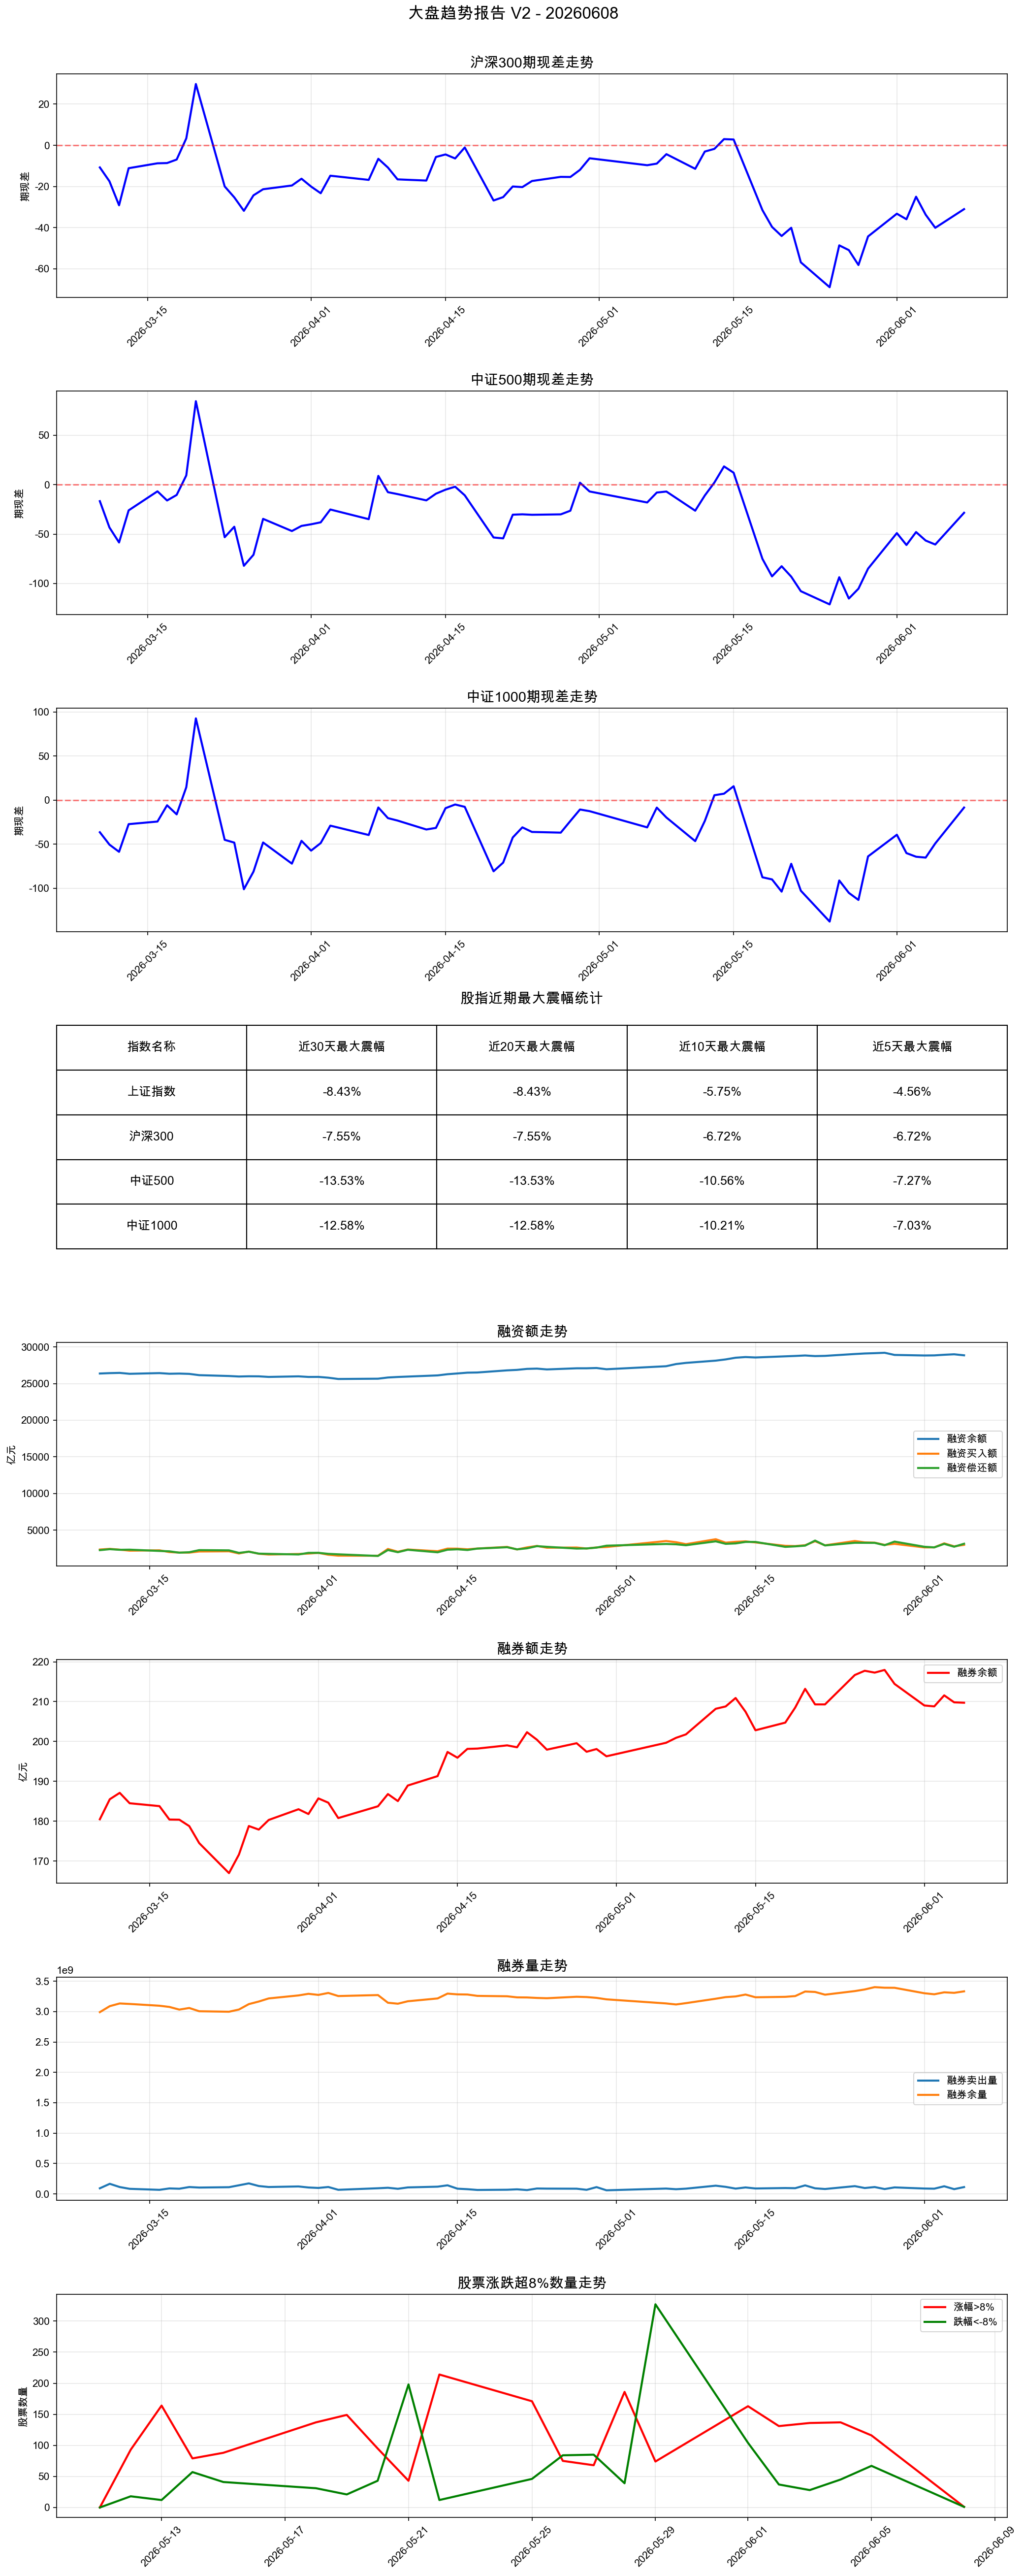
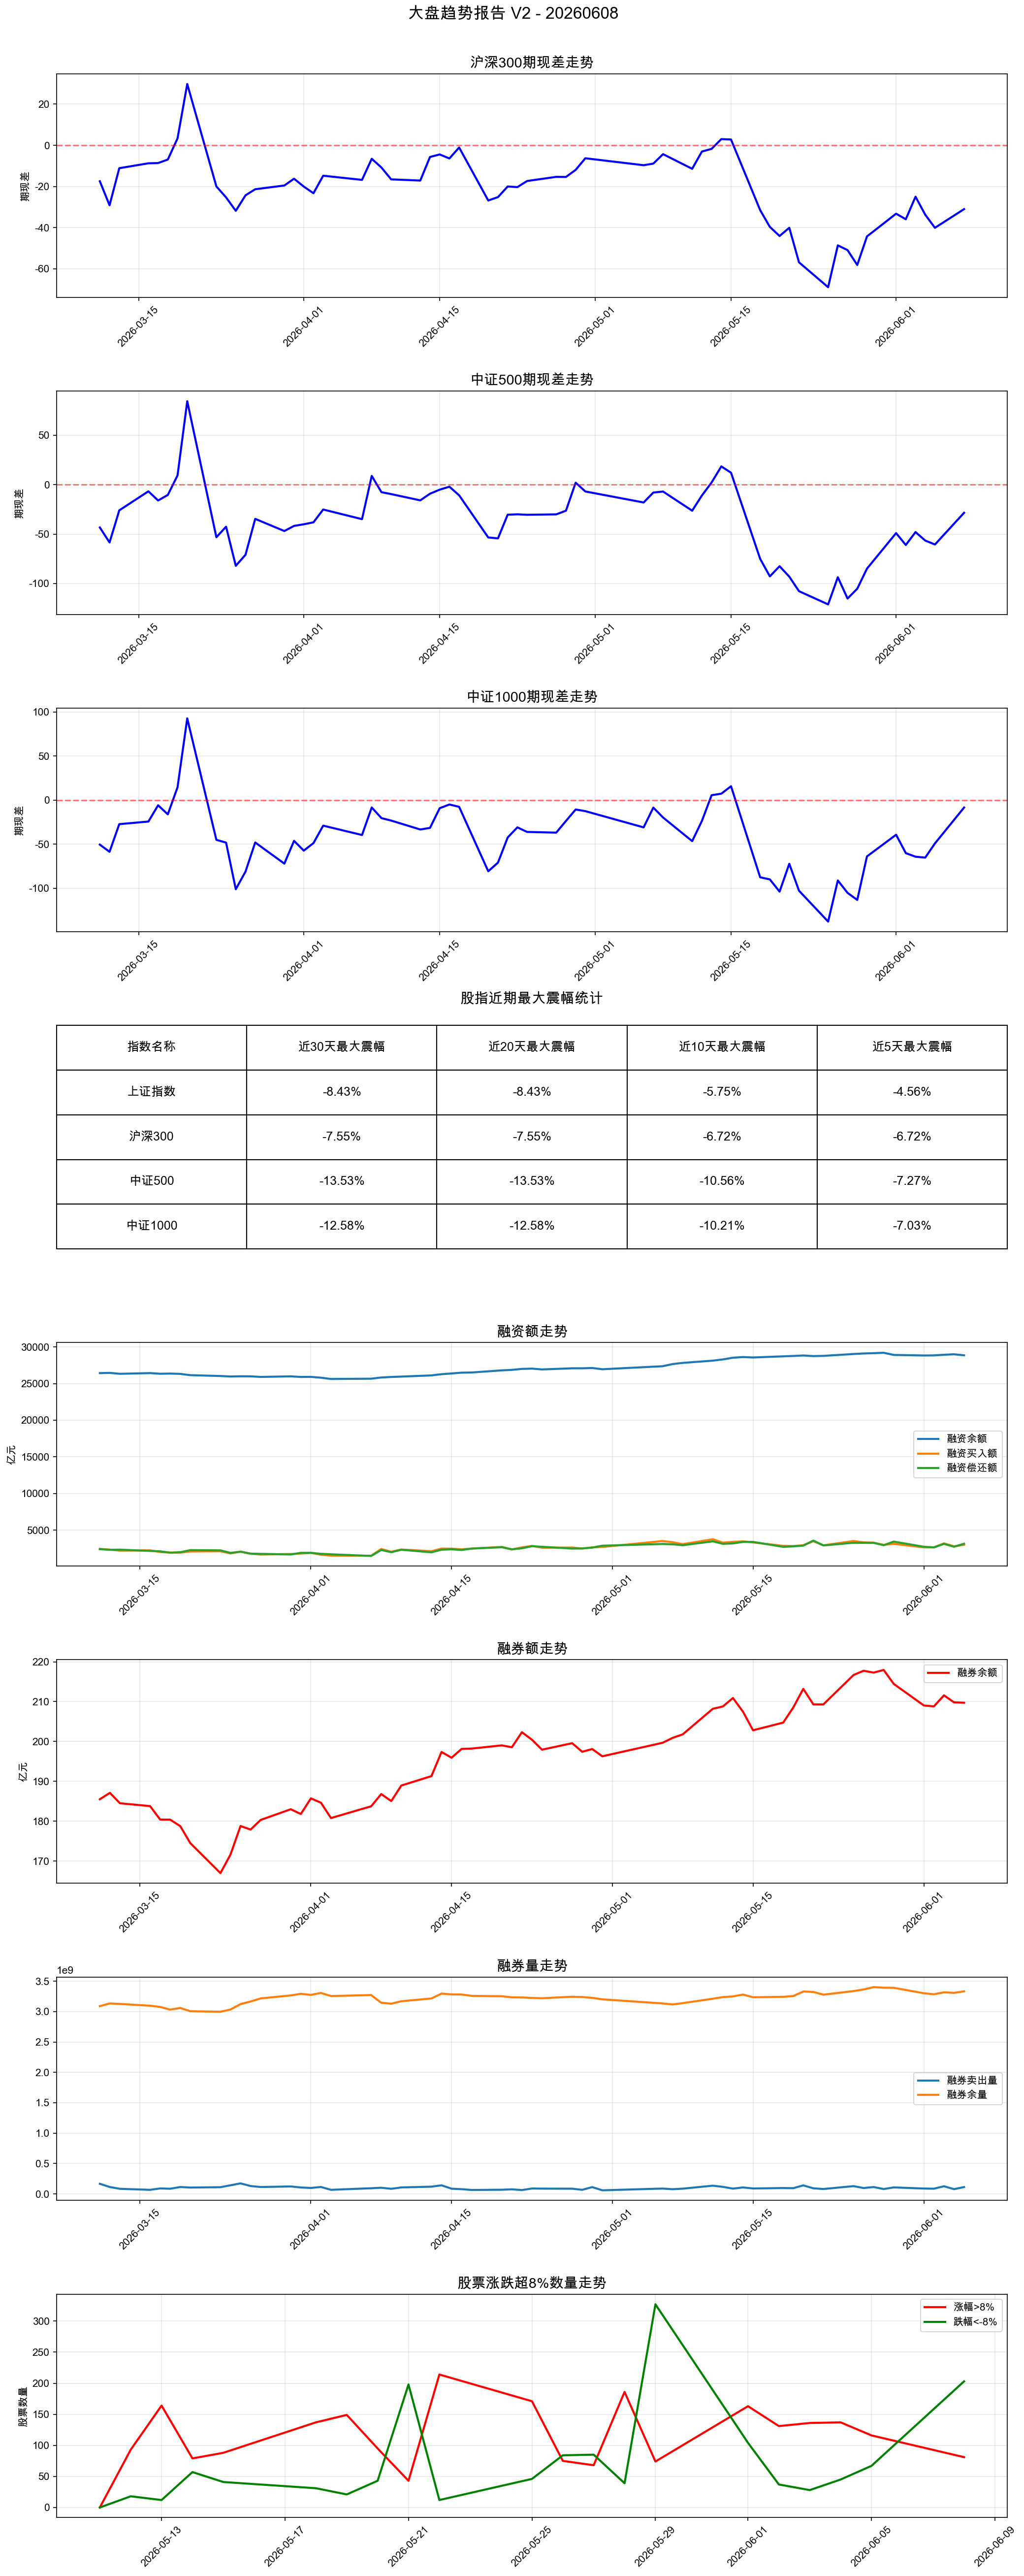
优化选股策略：增加振幅筛选条件
- select_lowwave_in10day.py: 新增最近10日振幅0%-15%筛选条件
- select_lowwave_in30day.py: 新增最近30日振幅0%-15%筛选条件

振幅公式：(最高收盘价-最低收盘价)/最低收盘价×100
有效筛选低波动股票，提高选股质量

diff --git a/select_lowwave_in10day.py b/select_lowwave_in10day.py
@@ -90,6 +90,7 @@ def analyze_stocks(data):
 
     result = []
     count_total = 0
+    count_condition0 = 0  # 新增：振幅条件
     count_condition1 = 0
     count_condition2 = 0
     count_condition3 = 0
@@ -110,6 +111,19 @@ def analyze_stocks(data):
             continue
 
         count_total += 1
+
+        # 检查最近10日振幅 (新增条件)
+        max_close = max([r['close'] for r in last_10_days])
+        min_close = min([r['close'] for r in last_10_days])
+        if min_close > 0:
+            amplitude = (max_close - min_close) / min_close * 100
+        else:
+            amplitude = 0
+
+        if amplitude <= 0 or amplitude >= 15:
+            continue
+
+        count_condition0 += 1  # 振幅条件满足
 
         up_days_amount = []
         down_days_amount = []
@@ -172,11 +186,12 @@ def analyze_stocks(data):
     print("\n" + "=" * 60)
     print(f"满足条件统计：")
     print(f"总股票数(数据完整): {count_total}")
-    print(f"满足条件1(至少4天阳线): {count_condition1}")
-    print(f"满足条件1+2(阳线成交额>阴线1.3倍): {count_condition2}")
-    print(f"满足条件1+2+3(阳线平均成交额>5亿): {count_condition3}")
-    print(f"满足条件1+2+3+4(最近10天至少2天涨幅>5%): {count_condition4}")
-    print(f"满足条件1+2+3+4+5(市值>50亿): {len(result)}")
+    print(f"满足条件0(最近10日振幅0%-15%): {count_condition0}")
+    print(f"满足条件0+1(至少4天阳线): {count_condition1}")
+    print(f"满足条件0+1+2(阳线成交额>阴线1.3倍): {count_condition2}")
+    print(f"满足条件0+1+2+3(阳线平均成交额>5亿): {count_condition3}")
+    print(f"满足条件0+1+2+3+4(最近10天至少2天涨幅>5%): {count_condition4}")
+    print(f"满足条件0+1+2+3+4+5(市值>50亿): {len(result)}")
     print("=" * 60)
 
     return result

diff --git a/select_lowwave_in30day.py b/select_lowwave_in30day.py
@@ -94,6 +94,7 @@ def analyze_stocks(data):
 
     result = []
     count_total = 0
+    count_condition0 = 0  # 新增：振幅条件
     count_condition1 = 0
     count_condition2 = 0
     count_condition3 = 0
@@ -114,6 +115,19 @@ def analyze_stocks(data):
             continue
 
         count_total += 1
+
+        # 检查最近30日振幅 (新增条件)
+        max_close_30 = max([r['close'] for r in last_30_days])
+        min_close_30 = min([r['close'] for r in last_30_days])
+        if min_close_30 > 0:
+            amplitude_30 = (max_close_30 - min_close_30) / min_close_30 * 100
+        else:
+            amplitude_30 = 0
+
+        if amplitude_30 <= 0 or amplitude_30 >= 15:
+            continue
+
+        count_condition0 += 1  # 振幅条件满足
 
         up_days = []
         for r in last_30_days:
@@ -181,11 +195,12 @@ def analyze_stocks(data):
     print("\n" + "=" * 60)
     print(f"满足条件统计：")
     print(f"总股票数(数据完整30天): {count_total}")
-    print(f"满足条件1(至少7天阳线): {count_condition1}")
-    print(f"满足条件1+2(阳线中2天成交额/流动市值>10%): {count_condition2}")
-    print(f"满足条件1+2+3(最低收盘价/最高收盘价>80%): {count_condition3}")
-    print(f"满足条件1+2+3+4(至少2天涨幅>5%): {count_condition4}")
-    print(f"满足条件1+2+3+4+5(市值>50亿): {len(result)}")
+    print(f"满足条件0(最近30日振幅0%-15%): {count_condition0}")
+    print(f"满足条件0+1(至少7天阳线): {count_condition1}")
+    print(f"满足条件0+1+2(阳线中2天成交额/流动市值>10%): {count_condition2}")
+    print(f"满足条件0+1+2+3(最低收盘价/最高收盘价>80%): {count_condition3}")
+    print(f"满足条件0+1+2+3+4(至少2天涨幅>5%): {count_condition4}")
+    print(f"满足条件0+1+2+3+4+5(市值>50亿): {len(result)}")
     print("=" * 60)
 
     return result